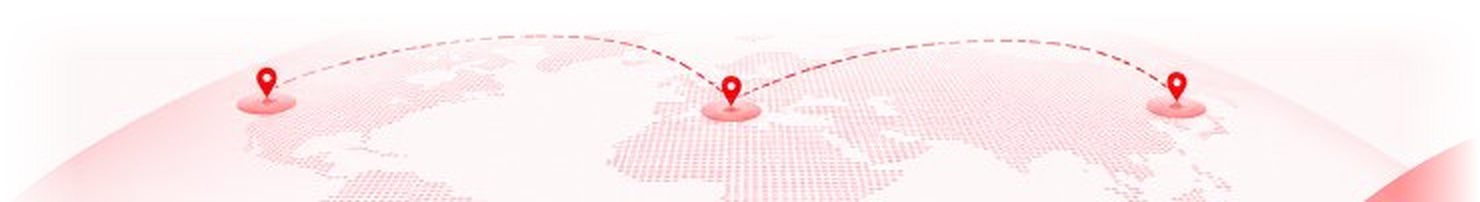
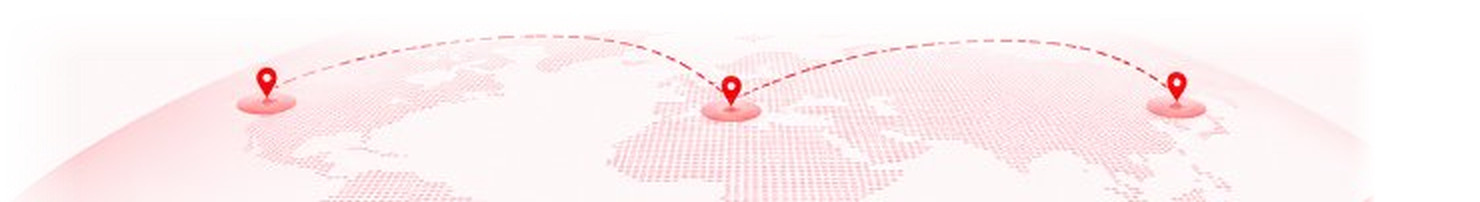
fix(web): replace broken corner wave items with smooth dual-tone svg curves

Changed region(s): [[0.9014, 0.7129, 0.9946, 1.0]]

diff --git a/apps/web/src/components/MeetOurTeamSection.tsx b/apps/web/src/components/MeetOurTeamSection.tsx
@@ -93,22 +93,55 @@ export function MeetOurTeamSection({ onOpenEnquiry }: MeetOurTeamSectionProps) {
         />
 
         {/* =======================================================================
-            AUTHENTIC 3D WORLD MAP GLOBE DOME, FLIGHT ARCS, PINS & CORNER WAVES
+            AUTHENTIC 3D WORLD MAP GLOBE DOME, FLIGHT ARCS, PINS & SMOOTH CORNER WAVES
             ======================================================================= */}
-        {/* Bottom-Left Soft Blush Curved Wave Sweep */}
-        <div className="pointer-events-none absolute bottom-0 left-0 w-[120px] sm:w-[160px] md:w-[200px] select-none overflow-hidden leading-none z-0">
-          <picture className="block w-full">
-            <source srcSet="/home/team-wave-left.webp" type="image/webp" />
-            <img
-              src="/home/team-wave-left.png"
-              alt=""
-              className="w-full h-auto object-contain object-left-bottom pointer-events-none select-none block"
-              loading="eager"
+        {/* Bottom-Left Smooth Curved Red Wave Sweep */}
+        <div className="pointer-events-none absolute bottom-0 left-0 w-[160px] sm:w-[220px] md:w-[280px] lg:w-[340px] xl:w-[400px] h-[80px] sm:h-[110px] md:h-[140px] lg:h-[170px] xl:h-[190px] select-none overflow-hidden leading-none z-0">
+          <svg
+            viewBox="0 0 400 190"
+            fill="none"
+            xmlns="http://www.w3.org/2000/svg"
+            className="w-full h-full block"
+            preserveAspectRatio="none"
+            aria-hidden="true"
+          >
+            <defs>
+              <linearGradient
+                id="teamWaveLeftGrad"
+                x1="100%"
+                y1="100%"
+                x2="0%"
+                y2="0%"
+              >
+                <stop offset="0%" stopColor="#fb7185" stopOpacity="0.85" />
+                <stop offset="45%" stopColor="#e11d48" stopOpacity="0.95" />
+                <stop offset="100%" stopColor="#be123c" stopOpacity="1" />
+              </linearGradient>
+              <linearGradient
+                id="teamWaveLeftSoft"
+                x1="100%"
+                y1="100%"
+                x2="0%"
+                y2="0%"
+              >
+                <stop offset="0%" stopColor="#fecdd3" stopOpacity="0.8" />
+                <stop offset="100%" stopColor="#fda4af" stopOpacity="0.3" />
+              </linearGradient>
+            </defs>
+            {/* Layer 1: Soft blush halo wave curve */}
+            <path
+              d="M 430 190 C 300 180, 130 115, 0 35 L 0 190 Z"
+              fill="url(#teamWaveLeftSoft)"
             />
-          </picture>
+            {/* Layer 2: Main vibrant crimson-red wave curve */}
+            <path
+              d="M 380 190 C 260 188, 105 138, 0 65 L 0 190 Z"
+              fill="url(#teamWaveLeftGrad)"
+            />
+          </svg>
         </div>
 
-        {/* Centered Smaller Globe Dome with Flight Route Arcs & 3 Location Pins */}
+        {/* Centered Smaller Globe Dome with Flight Route Arcs & 3 Location Pins (Untouched) */}
         <div className="pointer-events-none absolute inset-x-0 bottom-0 flex justify-center select-none overflow-hidden leading-none z-0">
           <picture className="block w-full max-w-[580px] sm:max-w-[640px] md:max-w-[700px] lg:max-w-[740px] mx-auto px-4 sm:px-0">
             <source srcSet="/home/team-globe-center.webp" type="image/webp" />
@@ -121,17 +154,50 @@ export function MeetOurTeamSection({ onOpenEnquiry }: MeetOurTeamSectionProps) {
           </picture>
         </div>
 
-        {/* Bottom-Right Vibrant Curved Red Wave Sweep */}
-        <div className="pointer-events-none absolute bottom-0 right-0 w-[140px] sm:w-[180px] md:w-[220px] select-none overflow-hidden leading-none z-0">
-          <picture className="block w-full">
-            <source srcSet="/home/team-wave-right.webp" type="image/webp" />
-            <img
-              src="/home/team-wave-right.png"
-              alt=""
-              className="w-full h-auto object-contain object-right-bottom pointer-events-none select-none block"
-              loading="eager"
+        {/* Bottom-Right Smooth Curved Red Wave Sweep */}
+        <div className="pointer-events-none absolute bottom-0 right-0 w-[160px] sm:w-[220px] md:w-[280px] lg:w-[340px] xl:w-[400px] h-[80px] sm:h-[110px] md:h-[140px] lg:h-[170px] xl:h-[190px] select-none overflow-hidden leading-none z-0">
+          <svg
+            viewBox="0 0 400 190"
+            fill="none"
+            xmlns="http://www.w3.org/2000/svg"
+            className="w-full h-full block"
+            preserveAspectRatio="none"
+            aria-hidden="true"
+          >
+            <defs>
+              <linearGradient
+                id="teamWaveRightGrad"
+                x1="0%"
+                y1="100%"
+                x2="100%"
+                y2="0%"
+              >
+                <stop offset="0%" stopColor="#fb7185" stopOpacity="0.85" />
+                <stop offset="45%" stopColor="#e11d48" stopOpacity="0.95" />
+                <stop offset="100%" stopColor="#be123c" stopOpacity="1" />
+              </linearGradient>
+              <linearGradient
+                id="teamWaveRightSoft"
+                x1="0%"
+                y1="100%"
+                x2="100%"
+                y2="0%"
+              >
+                <stop offset="0%" stopColor="#fecdd3" stopOpacity="0.8" />
+                <stop offset="100%" stopColor="#fda4af" stopOpacity="0.3" />
+              </linearGradient>
+            </defs>
+            {/* Layer 1: Soft blush halo wave curve */}
+            <path
+              d="M -30 190 C 100 180, 270 115, 400 35 L 400 190 Z"
+              fill="url(#teamWaveRightSoft)"
             />
-          </picture>
+            {/* Layer 2: Main vibrant crimson-red wave curve */}
+            <path
+              d="M 20 190 C 140 188, 295 138, 400 65 L 400 190 Z"
+              fill="url(#teamWaveRightGrad)"
+            />
+          </svg>
         </div>
       </div>
 
